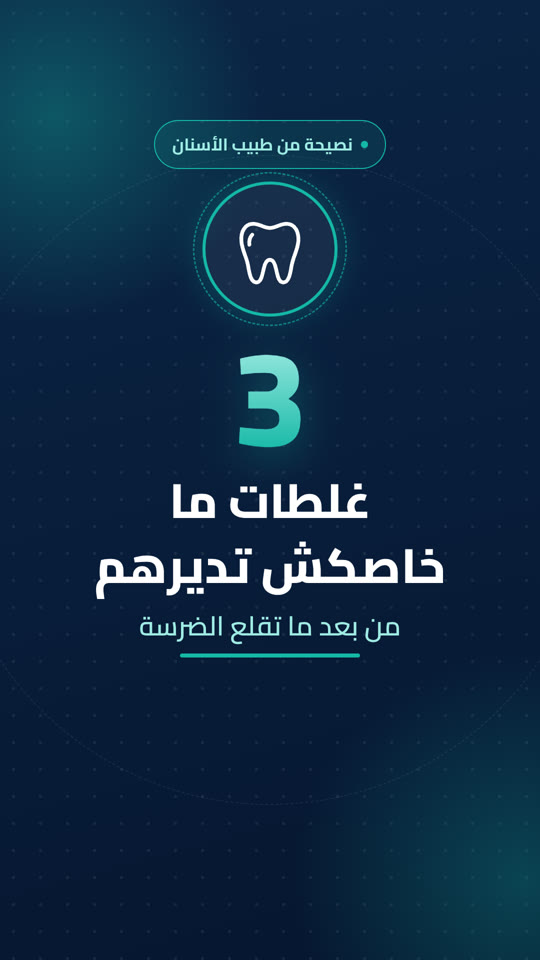
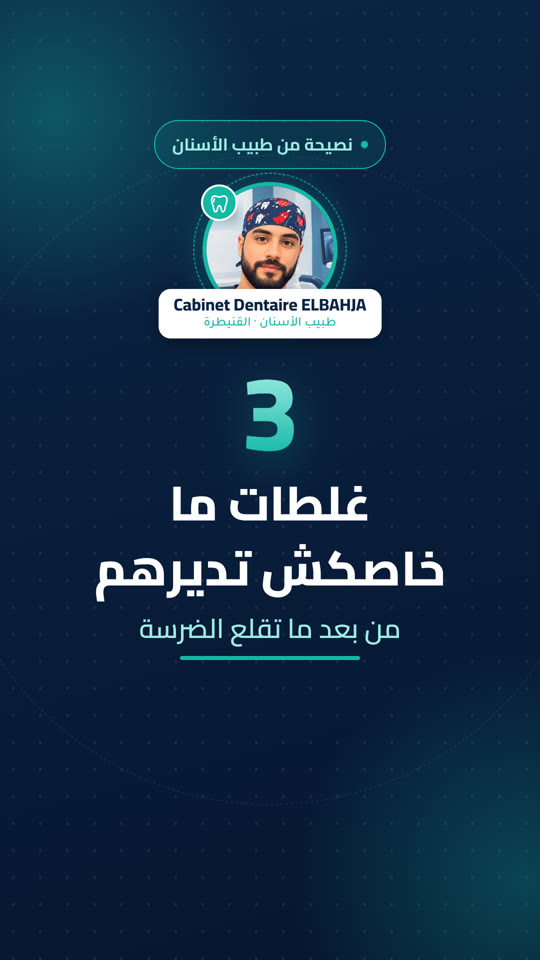
Add presenter photo to the intro and the call to action
- New PresenterBadge: round photo, rotating ring, tooth badge, name plate
- Intro shows the presenter instead of the tooth icon when a photo is set
- Final call to action includes the photo
- Clinic details: Cabinet Dentaire ELBAHJA, Kénitra

Claude-Session: https://claude.ai/code/session_019emWRc321bo3ZfySXjdsNf

Changed region(s): [[0.2667, 0.1875, 0.7111, 0.4688], [0.1778, 0.5, 0.8296, 0.6875], [0.3259, 0.5, 0.3852, 0.5625]]

diff --git a/src/components/PresenterBadge.tsx b/src/components/PresenterBadge.tsx
@@ -1,0 +1,122 @@
+import React from "react";
+import {
+  Img,
+  interpolate,
+  spring,
+  staticFile,
+  useCurrentFrame,
+  useVideoConfig,
+} from "remotion";
+import { AnimatedIcon } from "../icons/AnimatedIcon";
+import type { Presenter } from "../schema";
+import { FONTS } from "../theme";
+import { useColors } from "./ThemeContext";
+
+type Props = {
+  presenter: Presenter;
+  size: number;
+  delay?: number;
+  /** Name plate overlapping the bottom of the photo. */
+  showNamePlate?: boolean;
+};
+
+// Round presenter photo with a rotating ring, a small tooth badge and an
+// optional name plate.
+export const PresenterBadge: React.FC<Props> = ({
+  presenter,
+  size,
+  delay = 0,
+  showNamePlate = false,
+}) => {
+  const frame = useCurrentFrame();
+  const { fps } = useVideoConfig();
+  const c = useColors();
+
+  const enter = spring({ frame: frame - delay, fps, config: { damping: 12, stiffness: 110 } });
+  const plate = spring({ frame: frame - delay - 14, fps, config: { damping: 14 } });
+  const badge = spring({ frame: frame - delay - 22, fps, config: { damping: 9, stiffness: 160 } });
+  const float = Math.sin((frame - delay) / 18) * 5;
+  const badgeSize = size * 0.27;
+
+  return (
+    <div
+      style={{
+        position: "relative",
+        width: size,
+        height: size,
+        transform: `translateY(${float}px) scale(${enter})`,
+      }}
+    >
+      <div
+        style={{
+          position: "absolute",
+          inset: -size * 0.07,
+          borderRadius: "50%",
+          border: `3px dashed ${c.turquoise}`,
+          opacity: 0.6,
+          transform: `rotate(${frame * 0.6}deg)`,
+        }}
+      />
+      <Img
+        src={staticFile(presenter.photo)}
+        style={{
+          width: size,
+          height: size,
+          borderRadius: "50%",
+          objectFit: "cover",
+          border: `${size * 0.03}px solid ${c.turquoise}`,
+          boxShadow: `0 0 ${size * 0.25}px rgba(20,184,166,0.35)`,
+          boxSizing: "border-box",
+        }}
+      />
+      <div
+        style={{
+          position: "absolute",
+          insetInlineEnd: -size * 0.01,
+          top: size * 0.02,
+          width: badgeSize,
+          height: badgeSize,
+          borderRadius: "50%",
+          background: c.turquoise,
+          border: `${size * 0.018}px solid ${c.white}`,
+          display: "flex",
+          alignItems: "center",
+          justifyContent: "center",
+          transform: `scale(${badge})`,
+        }}
+      >
+        <AnimatedIcon name="tooth" size={badgeSize * 0.62} color={c.white} strokeWidth={14} />
+      </div>
+      {showNamePlate ? (
+        <div
+          style={{
+            position: "absolute",
+            left: "50%",
+            bottom: -size * 0.16,
+            transform: `translateX(-50%) translateY(${interpolate(plate, [0, 1], [20, 0])}px)`,
+            opacity: plate,
+            padding: "10px 30px 12px",
+            borderRadius: 24,
+            background: c.white,
+            boxShadow: "0 14px 34px rgba(0,0,0,0.3)",
+            textAlign: "center",
+            whiteSpace: "nowrap",
+          }}
+        >
+          <div
+            dir="auto"
+            style={{ fontFamily: FONTS.title, fontWeight: 800, fontSize: 34, color: c.navy, lineHeight: 1.25 }}
+          >
+            {presenter.name}
+          </div>
+          <div
+            dir="auto"
+            style={{ fontFamily: FONTS.body, fontWeight: 500, fontSize: 26, color: c.turquoise, lineHeight: 1.3 }}
+          >
+            {presenter.title}
+          </div>
+        </div>
+      ) : null}
+    </div>
+  );
+};

diff --git a/src/scenes/OutroScene.tsx b/src/scenes/OutroScene.tsx
@@ -9,20 +9,23 @@ import {
 import { AnimatedTitle } from "../components/AnimatedTitle";
 import { Background } from "../components/Background";
 import { InfoCard } from "../components/InfoCard";
+import { PresenterBadge } from "../components/PresenterBadge";
 import { useColors } from "../components/ThemeContext";
 import { AnimatedIcon } from "../icons/AnimatedIcon";
-import type { OutroContent } from "../schema";
+import type { OutroContent, Presenter } from "../schema";
 import { FONTS } from "../theme";
 
 // Recap checklist, warning, call to action and medical disclaimer.
 export const OutroScene: React.FC<{
   content: OutroContent;
+  presenter: Presenter;
   handle: string;
   brandName: string;
-}> = ({ content, handle, brandName }) => {
+}> = ({ content, presenter, handle, brandName }) => {
   const frame = useCurrentFrame();
   const { fps } = useVideoConfig();
   const c = useColors();
+  const hasPhoto = presenter.photo.trim().length > 0;
 
   const listStart = 14;
   const listStagger = 10;
@@ -92,36 +95,44 @@ export const OutroScene: React.FC<{
         </div>
         <div
           style={{
-            padding: "20px 50px",
+            display: "flex",
+            alignItems: "center",
+            gap: 26,
+            paddingBlock: hasPhoto ? 14 : 20,
+            paddingInlineStart: hasPhoto ? 14 : 50,
+            paddingInlineEnd: hasPhoto ? 44 : 50,
             borderRadius: 999,
             background: `linear-gradient(90deg, ${c.turquoise}, ${c.turquoiseLight})`,
             boxShadow: "0 20px 50px rgba(20,184,166,0.45)",
-            textAlign: "center",
             transform: `scale(${ctaIn * pulse})`,
           }}
         >
-          <div
-            style={{
-              fontFamily: FONTS.title,
-              fontWeight: 800,
-              fontSize: 42,
-              color: c.navyDeep,
-            }}
-          >
-            {content.cta}
-          </div>
-          {/* Handles are Latin: keep "@" at the start even in RTL. */}
-          <div
-            dir="ltr"
-            style={{
-              fontFamily: FONTS.body,
-              fontWeight: 600,
-              fontSize: 34,
-              color: c.navy,
-              marginTop: 4,
-            }}
-          >
-            {handle}
+          {hasPhoto ? (
+            <PresenterBadge presenter={presenter} size={116} delay={ctaDelay} />
+          ) : null}
+          <div style={{ textAlign: hasPhoto ? "start" : "center" }}>
+            <div
+              style={{
+                fontFamily: FONTS.title,
+                fontWeight: 800,
+                fontSize: 42,
+                color: c.navyDeep,
+              }}
+            >
+              {content.cta}
+            </div>
+            <div
+              style={{
+                fontFamily: FONTS.body,
+                fontWeight: 600,
+                fontSize: 34,
+                color: c.navy,
+                marginTop: 4,
+              }}
+            >
+              {/* Handles are Latin: keep "@" at the start even in RTL. */}
+              <span dir="ltr">{handle}</span>
+            </div>
           </div>
         </div>
         <div

diff --git a/src/scenes/IntroScene.tsx b/src/scenes/IntroScene.tsx
@@ -10,15 +10,20 @@ import { AnimatedTitle } from "../components/AnimatedTitle";
 import { Background } from "../components/Background";
 import { IconBadge } from "../components/IconBadge";
 import { Pill } from "../components/Pill";
+import { PresenterBadge } from "../components/PresenterBadge";
 import { useColors } from "../components/ThemeContext";
-import type { IntroContent } from "../schema";
+import type { IntroContent, Presenter } from "../schema";
 import { FONTS } from "../theme";
 
 // Hook scene: kicker, icon, big number and the video title.
-export const IntroScene: React.FC<{ content: IntroContent }> = ({ content }) => {
+export const IntroScene: React.FC<{
+  content: IntroContent;
+  presenter: Presenter;
+}> = ({ content, presenter }) => {
   const frame = useCurrentFrame();
   const { fps } = useVideoConfig();
   const c = useColors();
+  const hasPhoto = presenter.photo.trim().length > 0;
 
   const numberIn = spring({
     frame: frame - 18,
@@ -44,12 +49,19 @@ export const IntroScene: React.FC<{ content: IntroContent }> = ({ content }) => 
           border={`2px solid ${c.turquoise}`}
           dotColor={c.turquoise}
         />
-        <IconBadge icon={content.icon} size={270} delay={4} variant="dark" />
+        {hasPhoto ? (
+          // The name plate overlaps the bottom of the photo: leave room for it.
+          <div style={{ marginBottom: 56 }}>
+            <PresenterBadge presenter={presenter} size={270} delay={4} showNamePlate />
+          </div>
+        ) : (
+          <IconBadge icon={content.icon} size={270} delay={4} variant="dark" />
+        )}
         <div
           style={{
             fontFamily: FONTS.title,
             fontWeight: 800,
-            fontSize: 270,
+            fontSize: hasPhoto ? 210 : 270,
             lineHeight: 0.85,
             marginTop: 10,
             background: `linear-gradient(180deg, ${c.turquoiseLight} 0%, ${c.turquoise} 100%)`,

diff --git a/src/schema.ts b/src/schema.ts
@@ -95,6 +95,13 @@ export const videoSchema = z.object({
   direction: z
     .enum(["rtl", "ltr"])
     .describe("rtl for Arabic / Darija, ltr for French or English"),
+  presenter: z.object({
+    photo: z
+      .string()
+      .describe("Square photo in public/, e.g. presenter/avatar.jpg. Empty = no photo"),
+    name: z.string(),
+    title: z.string(),
+  }),
   brand: z.object({
     name: z.string().describe("Clinic / doctor name"),
     handle: z.string().describe("Social handle shown in the CTA"),
@@ -118,3 +125,4 @@ export type TipContent = z.infer<typeof tipSchema>;
 export type OutroContent = z.infer<typeof outroSchema>;
 export type VoiceoverSettings = z.infer<typeof voiceoverSchema>;
 export type VoiceClip = z.infer<typeof voiceClipSchema>;
+export type Presenter = z.infer<typeof videoSchema>["presenter"];

diff --git a/src/videos/extraction-darija.ts b/src/videos/extraction-darija.ts
@@ -18,8 +18,16 @@ import { defaultColors } from "../theme";
 export const extractionDarija: VideoContent = {
   direction: "rtl",
 
+  // Photo shown in the intro (with a name plate) and in the final call to
+  // action. Set photo to "" to show the tooth icon instead.
+  presenter: {
+    photo: "presenter/avatar.jpg",
+    name: "Cabinet Dentaire ELBAHJA",
+    title: "طبيب الأسنان · القنيطرة",
+  },
+
   brand: {
-    name: "عيادة طب الأسنان ديالك",
+    name: "Cabinet Dentaire ELBAHJA · Kénitra",
     handle: "@votrecabinetdentaire",
   },
 

diff --git a/src/DentalReel.tsx b/src/DentalReel.tsx
@@ -44,11 +44,12 @@ export const DentalReel: React.FC<VideoContent> = (content) => {
   );
 
   const scenes: React.ReactNode[] = [
-    <IntroScene key="intro" content={content.intro} />,
+    <IntroScene key="intro" content={content.intro} presenter={content.presenter} />,
     ...content.tips.map((tip, i) => <TipScene key={`tip-${i}`} content={tip} index={i} />),
     <OutroScene
       key="outro"
       content={content.outro}
+      presenter={content.presenter}
       handle={content.brand.handle}
       brandName={content.brand.name}
     />,

diff --git a/src/Cover.tsx b/src/Cover.tsx
@@ -14,7 +14,7 @@ const COVER_FRAME = 100;
 export const Cover: React.FC<VideoContent> = (content) => (
   <ThemeProvider colors={content.theme} direction={content.direction}>
     <Sequence from={-COVER_FRAME}>
-      <IntroScene content={content.intro} />
+      <IntroScene content={content.intro} presenter={content.presenter} />
     </Sequence>
   </ThemeProvider>
 );

diff --git a/README.md b/README.md
@@ -20,6 +20,7 @@ The first video is **« 3 غلطات ما خاصكش تديرهم من بعد م
 | Duration | ~30 s, computed from the content. A scene gets longer automatically if its voice needs more time |
 | Output | MP4 H.264 + AAC audio, `yuv420p`, BT.709, CRF 18 |
 | Design | White, dark blue (`#0B2545`) and turquoise (`#14B8A6`); Cairo + Tajawal Arabic fonts bundled locally |
+| Presenter | Your photo + name in the intro and in the final call to action |
 | Animations | Word-by-word titles, self-drawing line icons, spring badges, slide / wipe / iris transitions, karaoke subtitles, story-style progress bar |
 | Safe zones | Text stays clear of the areas covered by the Instagram/TikTok UI (top 200 px, bottom 380 px) |
 
@@ -130,7 +131,8 @@ tips: [
 ]
 ```
 
-- **Brand**: `brand.name` and `brand.handle` (shown in the final call to action). Replace the placeholders.
+- **Presenter photo**: `presenter.photo` (a square image in `public/`, e.g. `presenter/avatar.jpg`), `presenter.name` and `presenter.title`. The photo appears in the intro with a name plate and in the final call to action. Use `photo: ""` to show the tooth icon instead. Crop the image square with the face centered.
+- **Brand**: `brand.name` and `brand.handle` (shown in the final call to action).
 - **Narration / subtitles**: each scene has a list of lines. After changing one, run `npm run voiceover` (or push: the cloud workflow does it). Until then that line has no voice. Set `showSubtitles: false` to hide subtitles.
 - **Durations**: in frames (30 = 1 second). They are minimums: a scene gets longer if its voice needs more time. `npm test` fails if a video is longer than 35 s.
 - **Colors**: `theme` (defaults in [`src/theme.ts`](src/theme.ts)).
